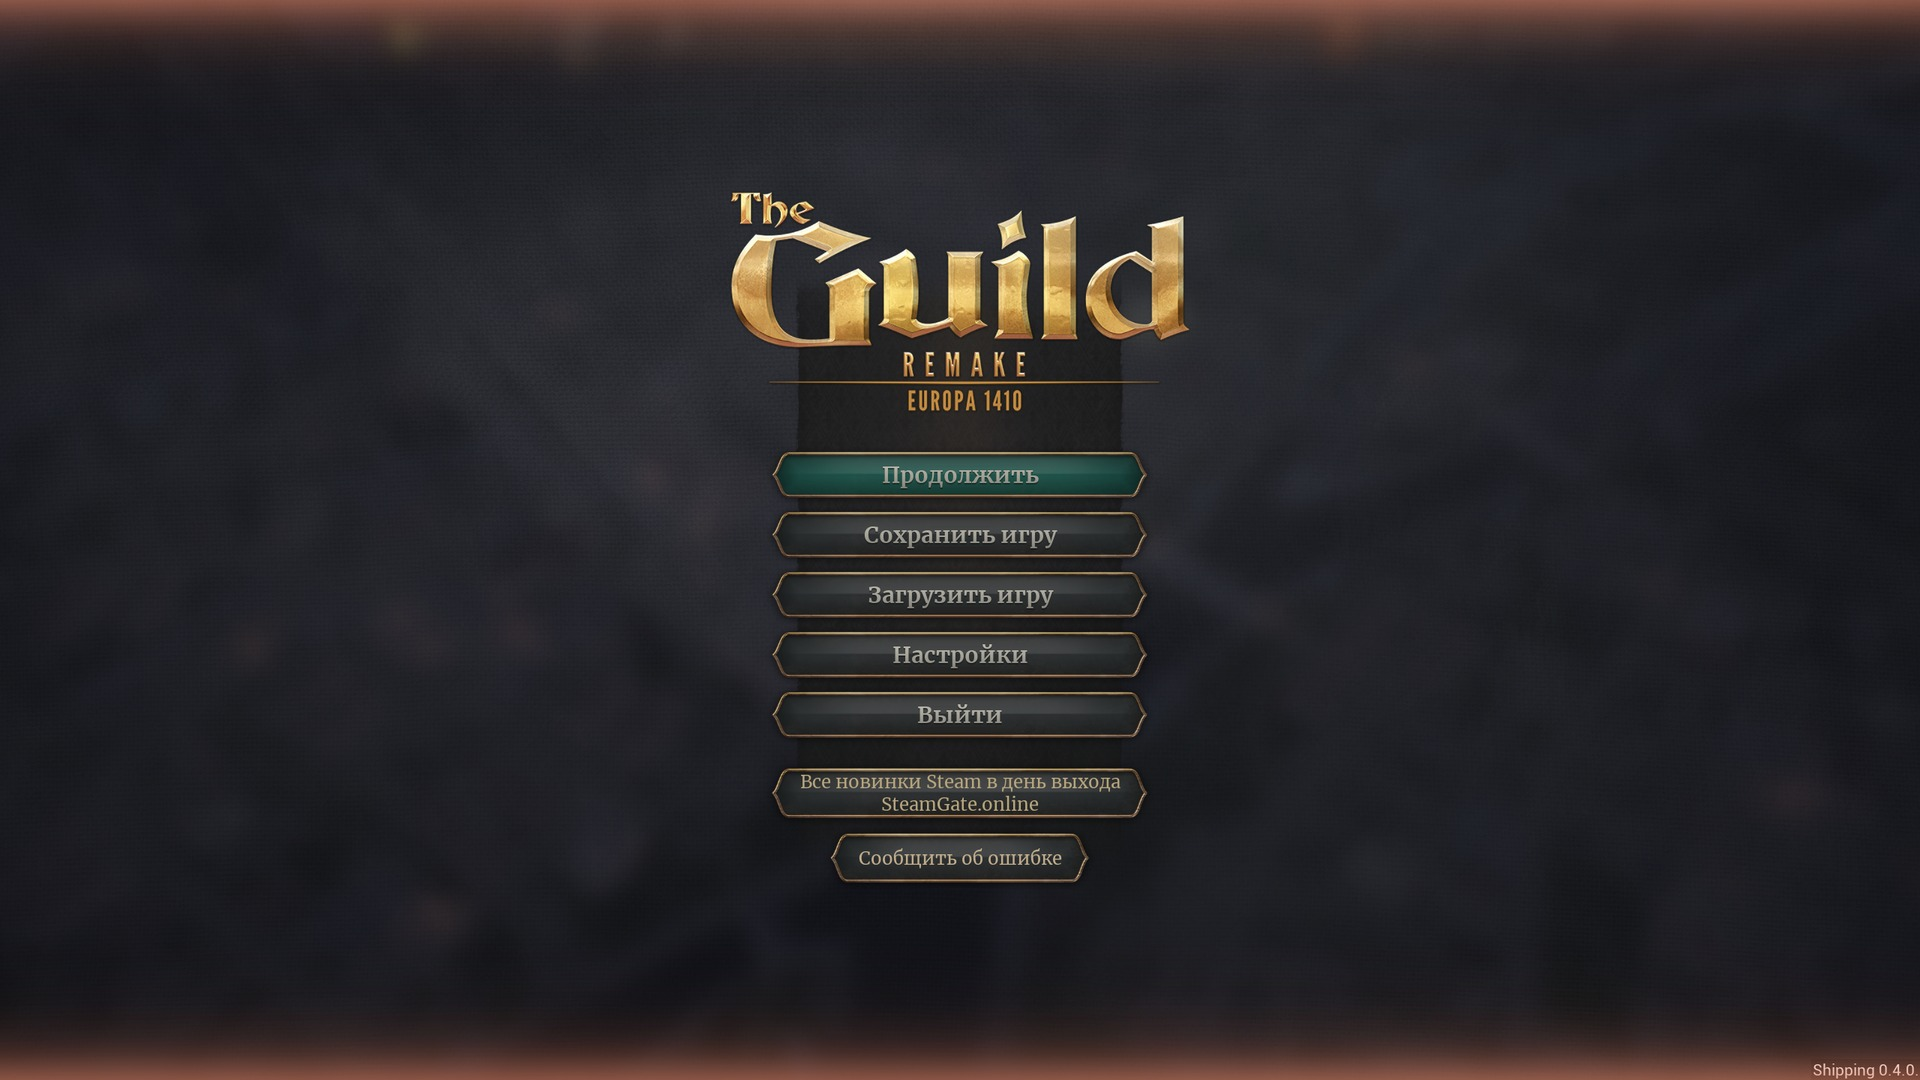
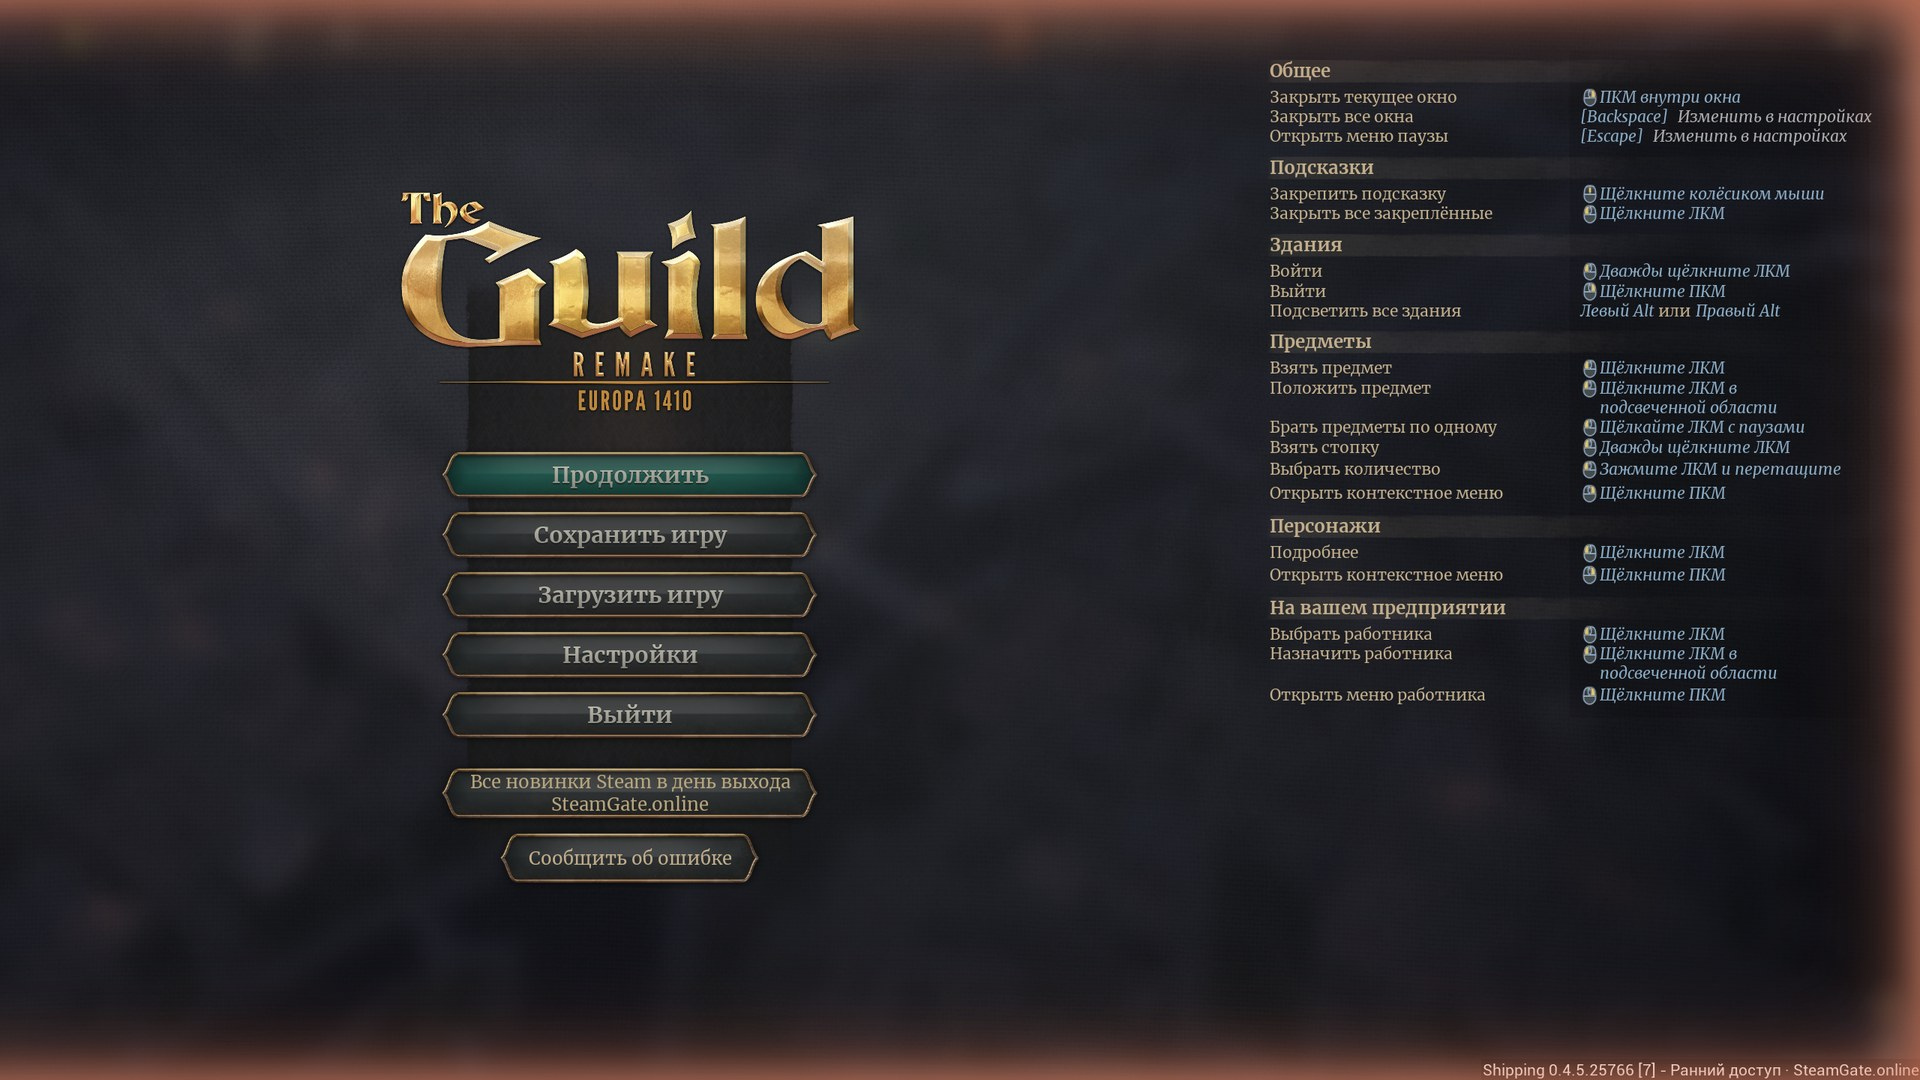
Скриншоты нового контента 0.4.5 и обновлённого меню паузы

diff --git a/README.md b/README.md
@@ -19,7 +19,7 @@
 ## Что переведено
 
 - **7 399 строк игры, около 54 тысяч слов** — 100% текста, который игра отдаёт на перевод.
-- **Ещё 270 строк**, которые игра на перевод не отдаёт: кнопки, подписи и подсказки, зашитые прямо в меню и скрипты. Их нет даже в официальном немецком переводе.
+- **Ещё 271 строка**, которую игра на перевод не отдаёт: кнопки, подписи и подсказки, зашитые прямо в меню и скрипты. Их нет даже в официальном немецком переводе.
 - Правильные падежи и склонения чисел: «1 династия, 3 династии, 12 династий», «Накопите 200 000 богатства».
 - Русская типографика: кавычки-«ёлочки», тире, неразрывные пробелы, числа с пробелами.
 
@@ -50,7 +50,8 @@
 | ![Предыстория](screenshots/04_predystoriya.jpg)<br>Предыстория и подсказки | ![Обучение](screenshots/05_obuchenie.jpg)<br>Обучение |
 | ![Книга улик](screenshots/06_kniga_ulik.jpg)<br>Книга улик | ![Городские палаты](screenshots/07_palaty.jpg)<br>Городские палаты |
 | ![Бургомистр](screenshots/08_burgomistr.jpg)<br>Должность бургомистра | ![Торговый двор](screenshots/09_torgovyi_dvor.jpg)<br>Торговый двор |
-| ![Персонаж](screenshots/11_personazh.jpg)<br>Панель персонажа | ![Меню паузы](screenshots/10_menyu_pauzy.jpg)<br>Меню паузы |
+| ![Персонаж](screenshots/11_personazh.jpg)<br>Панель персонажа | ![Меню паузы](screenshots/10_menyu_pauzy.jpg)<br>Меню паузы и памятка по управлению |
+| ![Меню задания](screenshots/14_menyu_zadaniya.jpg)<br>Меню задания в мастерской (0.4.5) | ![Пасеки](screenshots/15_paseki.jpg)<br>Пасеки в меню строительства (0.4.5) |
 
 ## Вопросы и ответы
 
